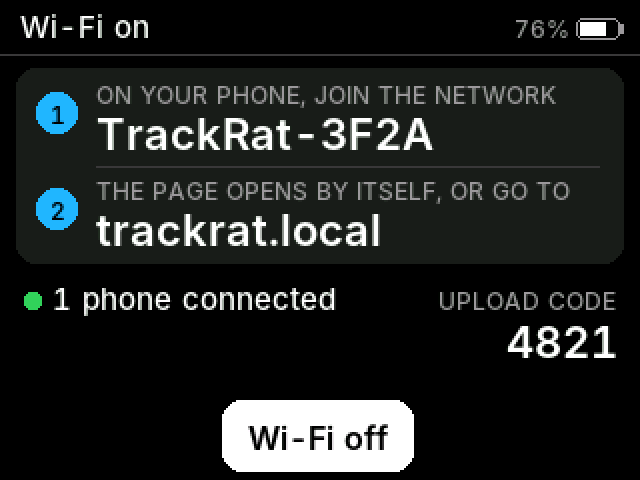
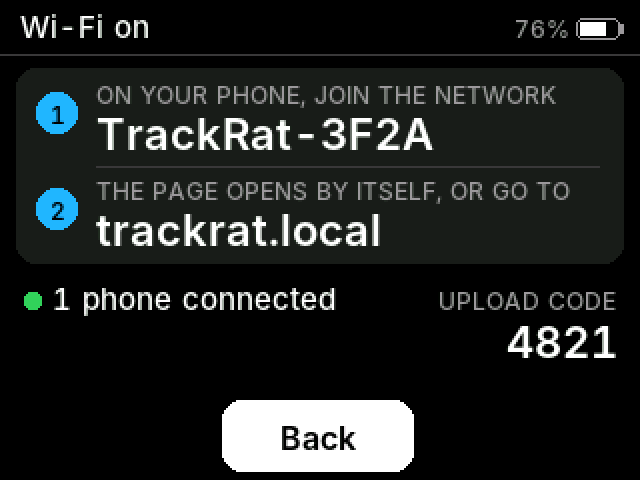
Wi-Fi screen: the button says Back, since Wi-Fi is on only while the screen is showing

Changed region(s): [[0.375, 0.875, 0.625, 0.9375]]

diff --git a/src/DisplayManager.cpp b/src/DisplayManager.cpp
@@ -1241,8 +1241,8 @@ void DisplayManager::drawWifi(bool wifiOn, const String& network, const String& 
   }
 
   if (progress < 0 && !restarting) {
-    if (touchOk) footerButtons("", "Wi-Fi off", "");
-    else centered("Press BOOT to turn Wi-Fi off", 212, Font::Body, C_TEXT3);
+    if (touchOk) footerButtons("", "Back", "");
+    else centered("Press BOOT to go back", 212, Font::Body, C_TEXT3);
   }
   endFrame();
 }

diff --git a/src/main.cpp b/src/main.cpp
@@ -254,7 +254,7 @@ static void handleInput(InputEvent ev) {
       Session::onInputFreeRoamSummary(ev);
       break;
 
-    case AppState::Wifi:  // any tap or press turns Wi-Fi off, except mid firmware update
+    case AppState::Wifi:  // any tap or press goes back (which turns Wi-Fi off), except mid firmware update
       if (ev != InputEvent::Hold && !WifiPortal::busy()) enterState(wifiReturn);
       break;
 

diff --git a/docs/user-guide.md b/docs/user-guide.md
@@ -49,7 +49,7 @@ Using Track Rat day to day: driving, settings, tracks, power, the Wi-Fi page and
 | Performance | left: rollout / demo, centre: results, right: menu, hold 2 s: menu | press: next screen, hold 1 s: menu |
 | Lap session summary | left button: menu, centre button or any other tap: Ready screen again, right button: Wi-Fi page. After a session that ended by itself, driving off starts the next | press: Ready screen again, hold 1 s: Wi-Fi page |
 | Free Roam summary | tap: menu; WI-FI button: Wi-Fi page | press: menu, hold 1 s: Wi-Fi page |
-| Wi-Fi | tap: Wi-Fi off (not while firmware installs) | press: Wi-Fi off |
+| Wi-Fi | tap: back, which turns Wi-Fi off (not while firmware installs) | press: back, which turns Wi-Fi off |
 | Settings | tap a row, drag to scroll, top bar: back (to the home screen from the list) | press: next row, hold 1 s: open or flip it (on a choice page: choose it; on Brightness and Time zone: press is +, hold goes back; on Coolant: press is + on the highlighted value (past the top it goes round to just above the limit below it), hold goes to the next, and back after the last) |
 | First-boot setup | tap the choice on the left or right | press: the other choice, hold 1 s: choose it |
 | Any screen | Settings → **Power off**; when it's off, a tap turns it back on | hold 3 s: [power off](#battery-power-off-and-sleep) (BOOT only, not the big button). When it's off, a press turns it back on |
@@ -370,7 +370,7 @@ Get your sessions onto your phone without taking the SD card out.
 1. In the pits, tap **Wi-Fi** on the home screen or **WI-FI** on a session summary (or hold BOOT on a summary). The screen shows the network name, the address and a code for changes.
 2. On your phone, join the Wi-Fi network **TrackRat-XXXX**. There's no password (see the notes below). The last 4 characters are different on each board.
 3. The page opens by itself, like a hotel Wi-Fi login. If it doesn't, open **trackrat.local** in your browser, or **http://192.168.4.1** with the `http://` typed. On an iPhone the page only opens by itself if Auto-Login is on (Settings > Wi-Fi > the TrackRat network). If it has stopped opening, for example after tapping Cancel and Use Without Internet on the sign-in sheet, tap **Forget This Network** on that same page and join again.
-4. When you're done, tap the Track Rat screen (or press BOOT) to turn Wi-Fi off.
+4. When you're done, tap **Back** on the Track Rat screen (or press BOOT). Wi-Fi is on only while this screen is showing, so going back turns it off.
 
 What the page does:
 

diff --git a/CHANGELOG.md b/CHANGELOG.md
@@ -14,6 +14,10 @@ Install both the firmware and the file system (the web installer does both): the
 - The Track editor opens without a session (No session: just the track's lines), and the Tracks tab names any line far from its track, with a button to open it.
 - The Wi-Fi page at **trackrat.local**, shown on the Wi-Fi screen. `http://trackrat/` and any other name reach it too in a browser that takes them as an address.
 
+### Changed
+
+- The Wi-Fi screen's button says **Back** instead of Wi-Fi off. Going back still turns Wi-Fi off.
+
 ### Fixed
 
 - A session or a start/finish line can't be set far from a track any more: more than 15 km from the track's centre (`TRACK_RANGE_M`), the Ready screen offers only the way back, and a tap at the line is refused. Start also waits for a GPS fix. A line already that far from its track is ignored, so it no longer makes the track look nearby and open at every start.
